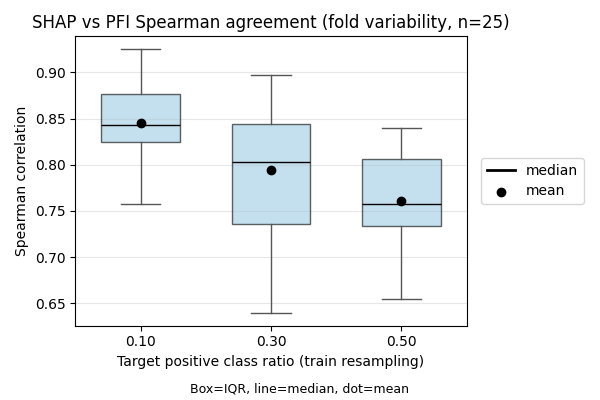
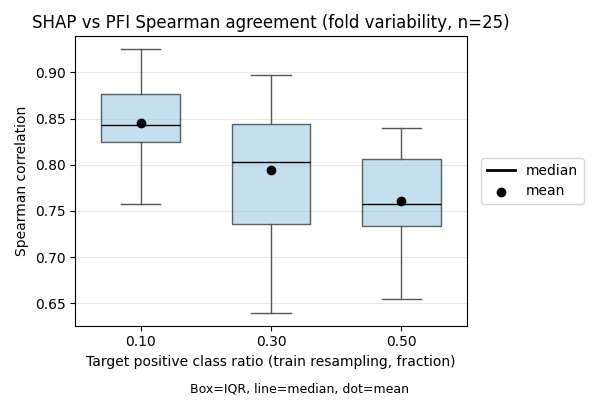
polish mvs plots labels

Changed region(s): [[0.15, 0.87, 0.75, 0.93]]

diff --git a/scripts/generate_mvs_report.py b/scripts/generate_mvs_report.py
@@ -64,7 +64,7 @@ def _plot_metric_with_error(
         ax.set_ylim(*y_limits)
     ax.grid(True, alpha=0.3)
     if use_scientific:
-        ax.ticklabel_format(axis="y", style="sci", scilimits=(-3, 3))
+        ax.ticklabel_format(axis="y", style="plain")
     if note:
         fig.text(0.5, 0.01, note, ha="center", va="bottom", fontsize=9)
         fig.tight_layout(rect=[0, 0.04, 1, 1])
@@ -248,7 +248,7 @@ def generate_report(results_dir: Path) -> None:
     plots_dir.mkdir(parents=True, exist_ok=True)
 
     ratios = sorted(results["class_ratio"].unique())
-    ratio_label = "Target positive class ratio (train resampling)"
+    ratio_label = "Target positive class ratio (train resampling, fraction)"
     fold_note = "Box=IQR, line=median, dot=mean"
     ratio_ticks = [float(ratio) for ratio in ratios]
 
